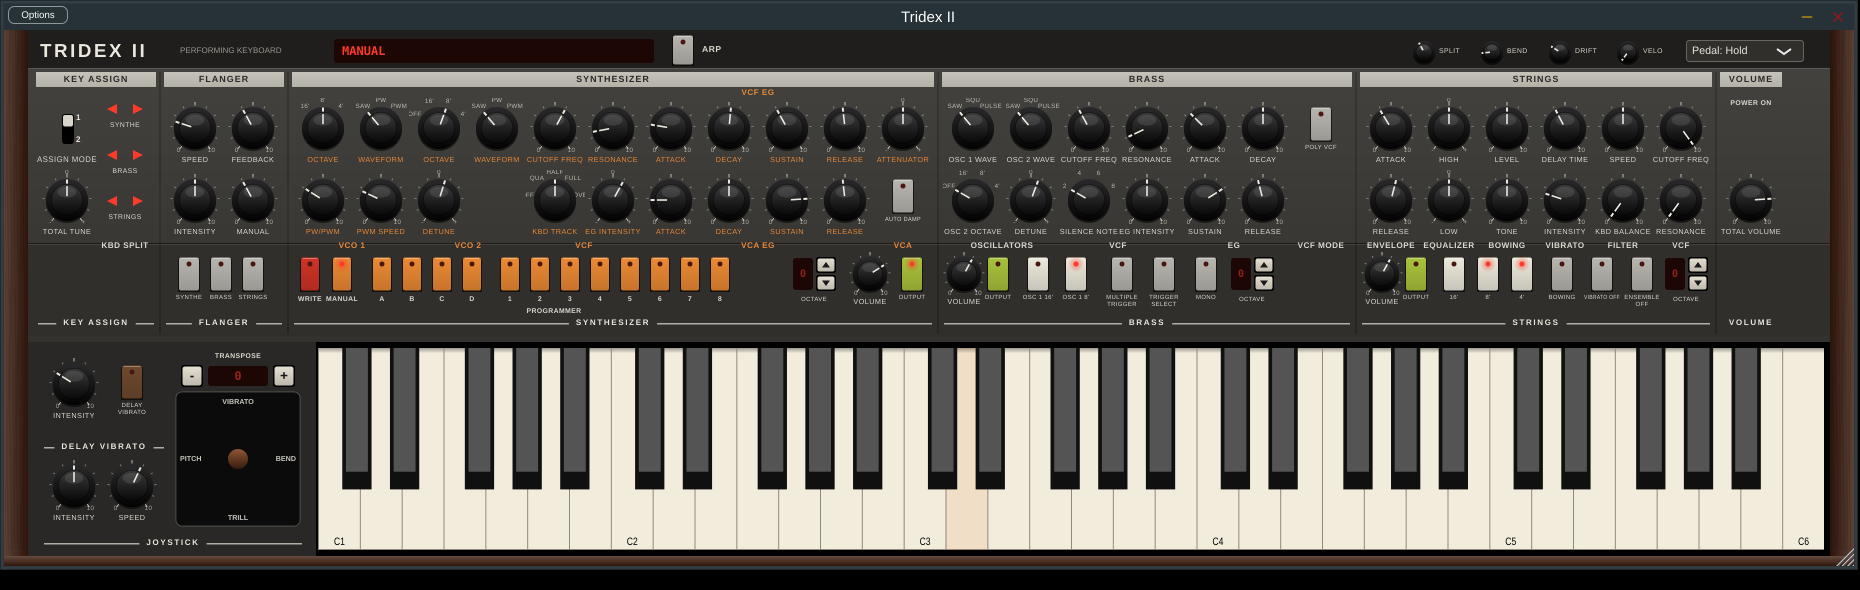
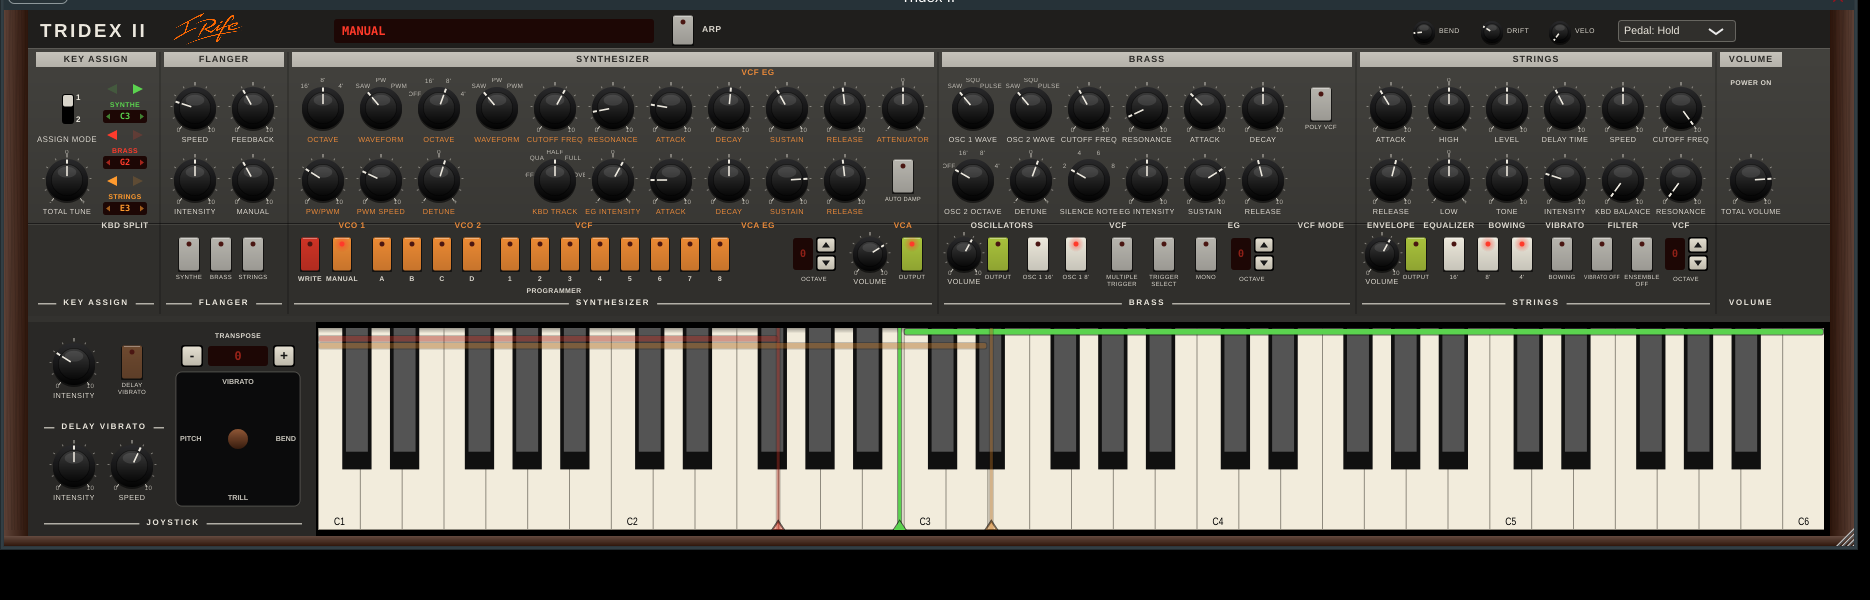
Colour-coded split indicators: SYNTHE green, BRASS red, STRINGS orange
KBD SPLIT selectors and split displays take the part colour; the keyboard
shows each part's range as a coloured bar and its split as a coloured line
(dimmed when the part's output is off). Split arrows now step on every click
(double-click resets only from the note name).

Claude-Session: https://claude.ai/code/session_01KKiCt8mF35twyx7HE495v2

diff --git a/Source/PluginEditor.cpp b/Source/PluginEditor.cpp
@@ -19,6 +19,8 @@ const juce::Colour kCapGreen  { 0xffa9c23c };
 const juce::Colour kCapOrange { 0xffeb8a34 };
 const juce::Colour kCapRed    { 0xffcf3426 };
 const juce::Colour kCapTan    { 0xff6e4a30 };
+// Part colours for the split indicators: SYNTHE green, BRASS red, STRINGS orange.
+const juce::Colour kPartCol[3] = { juce::Colour (0xff5bd34f), juce::Colour (0xffff3b2c), juce::Colour (0xffff9a2e) };
 const juce::Colour kLedOn  { 0xffff3a2a };
 const juce::Colour kLedOff { 0xff4a1612 };
 
@@ -170,7 +172,7 @@ void SplitSelector::paint (juce::Graphics& g)
         juce::Path tri;
         if (left) tri.addTriangle (r.getRight(), r.getY(), r.getRight(), r.getBottom(), r.getX(), r.getCentreY());
         else      tri.addTriangle (r.getX(), r.getY(), r.getX(), r.getBottom(), r.getRight(), r.getCentreY());
-        g.setColour (on ? kLedOn : kLedOff);
+        g.setColour (on ? colour : colour.withAlpha (0.18f));
         g.fillPath (tri);
     };
     arrow ({ b.getX() + 4, b.getCentreY() - 5, 10, 10 }, true, l);
@@ -298,13 +300,13 @@ void SplitPointControl::paint (juce::Graphics& g)
     const auto b = getLocalBounds().toFloat();
     g.setColour (juce::Colour (0xff1d0705));
     g.fillRoundedRectangle (b, 2.5f);
-    g.setColour (kLedOn.withAlpha (0.6f));
+    g.setColour (colour.withAlpha (0.6f));
     const float cy = b.getCentreY();
     juce::Path l, r;
     l.addTriangle (b.getX() + 3, cy, b.getX() + 7, cy - 3, b.getX() + 7, cy + 3);
     r.addTriangle (b.getRight() - 3, cy, b.getRight() - 7, cy - 3, b.getRight() - 7, cy + 3);
     g.fillPath (l); g.fillPath (r);
-    g.setColour (kLedOn);
+    g.setColour (colour);
     g.setFont (juce::FontOptions (juce::Font::getDefaultMonospacedFontName(), 10.0f, juce::Font::bold));
     g.drawText (juce::MidiMessage::getMidiNoteName (note, true, true, 3), b, juce::Justification::centred);
 }
@@ -315,11 +317,14 @@ void SplitPointControl::setNote (int n)
     if (n != note) attachment.setValueAsPartOfGesture ((float) n);
 }
 
-void SplitPointControl::mouseDown (const juce::MouseEvent&)
+void SplitPointControl::mouseDown (const juce::MouseEvent& e)
 {
     dragStartNote = note;
     dragging = false;
     attachment.beginGesture();
+    // Arrow zones step immediately, so rapid clicks keep stepping.
+    if (e.x < getWidth() / 3) setNote (note - 1);
+    else if (e.x > getWidth() * 2 / 3) setNote (note + 1);
 }
 
 void SplitPointControl::mouseDrag (const juce::MouseEvent& e)
@@ -329,24 +334,79 @@ void SplitPointControl::mouseDrag (const juce::MouseEvent& e)
     setNote (dragStartNote - e.getDistanceFromDragStartY() / 4);
 }
 
-void SplitPointControl::mouseUp (const juce::MouseEvent& e)
+void SplitPointControl::mouseUp (const juce::MouseEvent&)
 {
-    if (! dragging)
-    {
-        if (e.x < getWidth() / 3) setNote (note - 1);
-        else if (e.x > getWidth() * 2 / 3) setNote (note + 1);
-    }
     attachment.endGesture();
 }
 
-void SplitPointControl::mouseDoubleClick (const juce::MouseEvent&)
+void SplitPointControl::mouseDoubleClick (const juce::MouseEvent& e)
 {
-    attachment.setValueAsCompleteGesture (60.0f);
+    // Reset only from the note name (the middle), not the arrows.
+    if (e.x >= getWidth() / 3 && e.x <= getWidth() * 2 / 3) attachment.setValueAsCompleteGesture (60.0f);
 }
 
 void SplitPointControl::mouseWheelMove (const juce::MouseEvent&, const juce::MouseWheelDetails& w)
 {
     attachment.setValueAsCompleteGesture ((float) juce::jlimit (24, 108, note + (w.deltaY > 0 ? 1 : -1)));
+}
+
+//==============================================================================
+SplitOverlay::SplitOverlay (juce::AudioProcessorValueTreeState& state, juce::MidiKeyboardComponent& keys)
+    : apvts (state), kb (keys)
+{
+    setInterceptsMouseClicks (false, false);
+}
+
+void SplitOverlay::refreshIfChanged()
+{
+    const char* ids[] = { "syn_zone", "br_zone", "st_zone", "syn_split", "br_split", "st_split", "syn_on", "br_on", "st_on" };
+    std::array<float, 9> now {};
+    for (size_t i = 0; i < 9; ++i) now[i] = apvts.getRawParameterValue (ids[i])->load();
+    if (now != last) { last = now; repaint(); }
+}
+
+void SplitOverlay::paint (juce::Graphics& g)
+{
+    const int lowKey = kb.getRangeStart(), highKey = kb.getRangeEnd();
+    const auto keyX = [&] (int note)
+    {
+        if (note > highKey) return kb.getKeyStartPosition (highKey) + kb.getKeyWidth();
+        return kb.getKeyStartPosition (juce::jlimit (lowKey, highKey, note));
+    };
+    const float right = keyX (highKey + 1), h = (float) getHeight();
+
+    for (int s = 0; s < 3; ++s)
+    {
+        const int zone = juce::roundToInt (last[(size_t) s]);
+        const int split = juce::roundToInt (last[(size_t) s + 3]);
+        const bool on = last[(size_t) s + 6] > 0.5f;
+        const auto col = kPartCol[s].withAlpha (on ? 1.0f : 0.3f);
+        const float xs = keyX (split);
+
+        // Range bar along the top of the keys
+        const float x0 = zone == 2 ? xs : 0.0f, x1 = zone == 0 ? xs : right;
+        const auto bar = juce::Rectangle<float> (x0 + 1.0f, 1.0f + (float) s * 7.0f, std::max (0.0f, x1 - x0 - 2.0f), 5.5f);
+        g.setColour (juce::Colours::black.withAlpha (on ? 0.55f : 0.2f));
+        g.fillRoundedRectangle (bar.expanded (1.0f), 2.5f);
+        g.setColour (col);
+        g.fillRoundedRectangle (bar, 2.0f);
+
+        // Split line (only meaningful for L or H), offset per part so equal splits stay visible
+        if (zone != 1)
+        {
+            const float x = xs + (float) (s - 1) * 4.0f;
+            g.setColour (juce::Colours::black.withAlpha (on ? 0.5f : 0.2f));
+            g.fillRect (x - 2.5f, 0.0f, 5.0f, h);
+            g.setColour (col);
+            g.fillRect (x - 1.5f, 0.0f, 3.0f, h);
+            juce::Path tri;
+            tri.addTriangle (x - 6.0f, h, x + 6.0f, h, x, h - 9.0f);
+            g.setColour (juce::Colours::black.withAlpha (0.6f));
+            g.strokePath (tri, juce::PathStrokeType (2.0f));
+            g.setColour (col);
+            g.fillPath (tri);
+        }
+    }
 }
 
 //==============================================================================
@@ -753,15 +813,17 @@ TridexPanel::TridexPanel (TridexProcessor& p) : proc (p)
         {
             const int y = kRow1 - 30 + i * 46;
             auto sel = std::make_unique<tdxui::SplitSelector> (*proc.apvts.getParameter (ids[i]));
+            sel->colour = kPartCol[i];
             sel->setBounds (col (1) - 22, y, 44, 22);
             sel->setTooltip (juce::String (names[i]) + " split: lower 2 / upper 3 octaves");
             addAndMakeVisible (*sel);
             owned.push_back (std::move (sel));
-            text ({ (float) col (1) - 28, (float) y + 22, 56, 10 }, names[i], 8.0f);
+            text ({ (float) col (1) - 28, (float) y + 22, 56, 10 }, names[i], 8.0f, true, juce::Justification::centred, kPartCol[i]);
 
             // Tridex II: this part's own split point
             const char* splitIds[] = { "syn_split", "br_split", "st_split" };
             auto sp = std::make_unique<tdxui::SplitPointControl> (*proc.apvts.getParameter (splitIds[i]));
+            sp->colour = kPartCol[i];
             sp->setBounds (col (1) - 22, y + 32, 44, 13);
             sp->setTooltip (juce::String (names[i]) + " split point: click the arrows, drag, or scroll; double-click for C3");
             addAndMakeVisible (*sp);
@@ -1001,6 +1063,12 @@ TridexPanel::TridexPanel (TridexProcessor& p) : proc (p)
     keyboard.setColour (juce::MidiKeyboardComponent::shadowColourId, juce::Colours::black.withAlpha (0.35f));
     addAndMakeVisible (keyboard);
 
+    // Split indicators drawn over the keys
+    splitOverlay = std::make_unique<tdxui::SplitOverlay> (proc.apvts, keyboard);
+    splitOverlay->setBounds (keyboard.getBounds());
+    addAndMakeVisible (*splitOverlay);
+    splitOverlay->refreshIfChanged();
+
     startTimerHz (15);
 }
 
@@ -1044,6 +1112,7 @@ void TridexPanel::timerCallback()
     for (int i = 0; i < 8; ++i)
         progBtns[(size_t) i]->lit = ! manual && ! writeArmed && cur % 8 == i;
     writeBtn->repaint(); manualBtn->repaint();
+    if (splitOverlay) splitOverlay->refreshIfChanged();
     if (arpBtn->lit != arpPage->isVisible()) { arpBtn->lit = arpPage->isVisible(); arpBtn->repaint(); }
     for (auto* b : bankBtns) b->repaint();
     for (auto* b : progBtns) b->repaint();

diff --git a/Source/PluginEditor.h b/Source/PluginEditor.h
@@ -45,6 +45,7 @@ public:
     SplitSelector (juce::RangedAudioParameter& p);
     void paint (juce::Graphics&) override;
     void mouseDown (const juce::MouseEvent&) override;
+    juce::Colour colour { 0xffff3a2a };   // part colour (green / red / orange)
 
 private:
     juce::RangedAudioParameter& param;
@@ -88,6 +89,7 @@ class SplitPointControl : public juce::Component, public juce::SettableTooltipCl
 public:
     SplitPointControl (juce::RangedAudioParameter& p);
     void paint (juce::Graphics&) override;
+    juce::Colour colour { 0xffff3a2a };   // part colour
     void mouseDown (const juce::MouseEvent&) override;
     void mouseDrag (const juce::MouseEvent&) override;
     void mouseUp (const juce::MouseEvent&) override;
@@ -99,6 +101,20 @@ private:
     juce::ParameterAttachment attachment;
     int note = 60, dragStartNote = 60;
     bool dragging = false;
+};
+
+// Draws each part's keyboard range (coloured bars) and split point (coloured line) over the keys.
+class SplitOverlay : public juce::Component
+{
+public:
+    SplitOverlay (juce::AudioProcessorValueTreeState& state, juce::MidiKeyboardComponent& keys);
+    void paint (juce::Graphics&) override;
+    void refreshIfChanged();
+
+private:
+    juce::AudioProcessorValueTreeState& apvts;
+    juce::MidiKeyboardComponent& kb;
+    std::array<float, 9> last {};
 };
 
 // Spring-loaded joystick: X = pitch bend, Y+ = vibrato, Y- = trill.
@@ -214,6 +230,7 @@ private:
     tdxui::LedButton* manualBtn = nullptr;
     tdxui::LedButton* arpBtn = nullptr;
     std::unique_ptr<tdxui::ArpPage> arpPage;
+    std::unique_ptr<tdxui::SplitOverlay> splitOverlay;
     std::array<tdxui::LedButton*, 4> bankBtns {};
     std::array<tdxui::LedButton*, 8> progBtns {};
     bool writeArmed = false;
